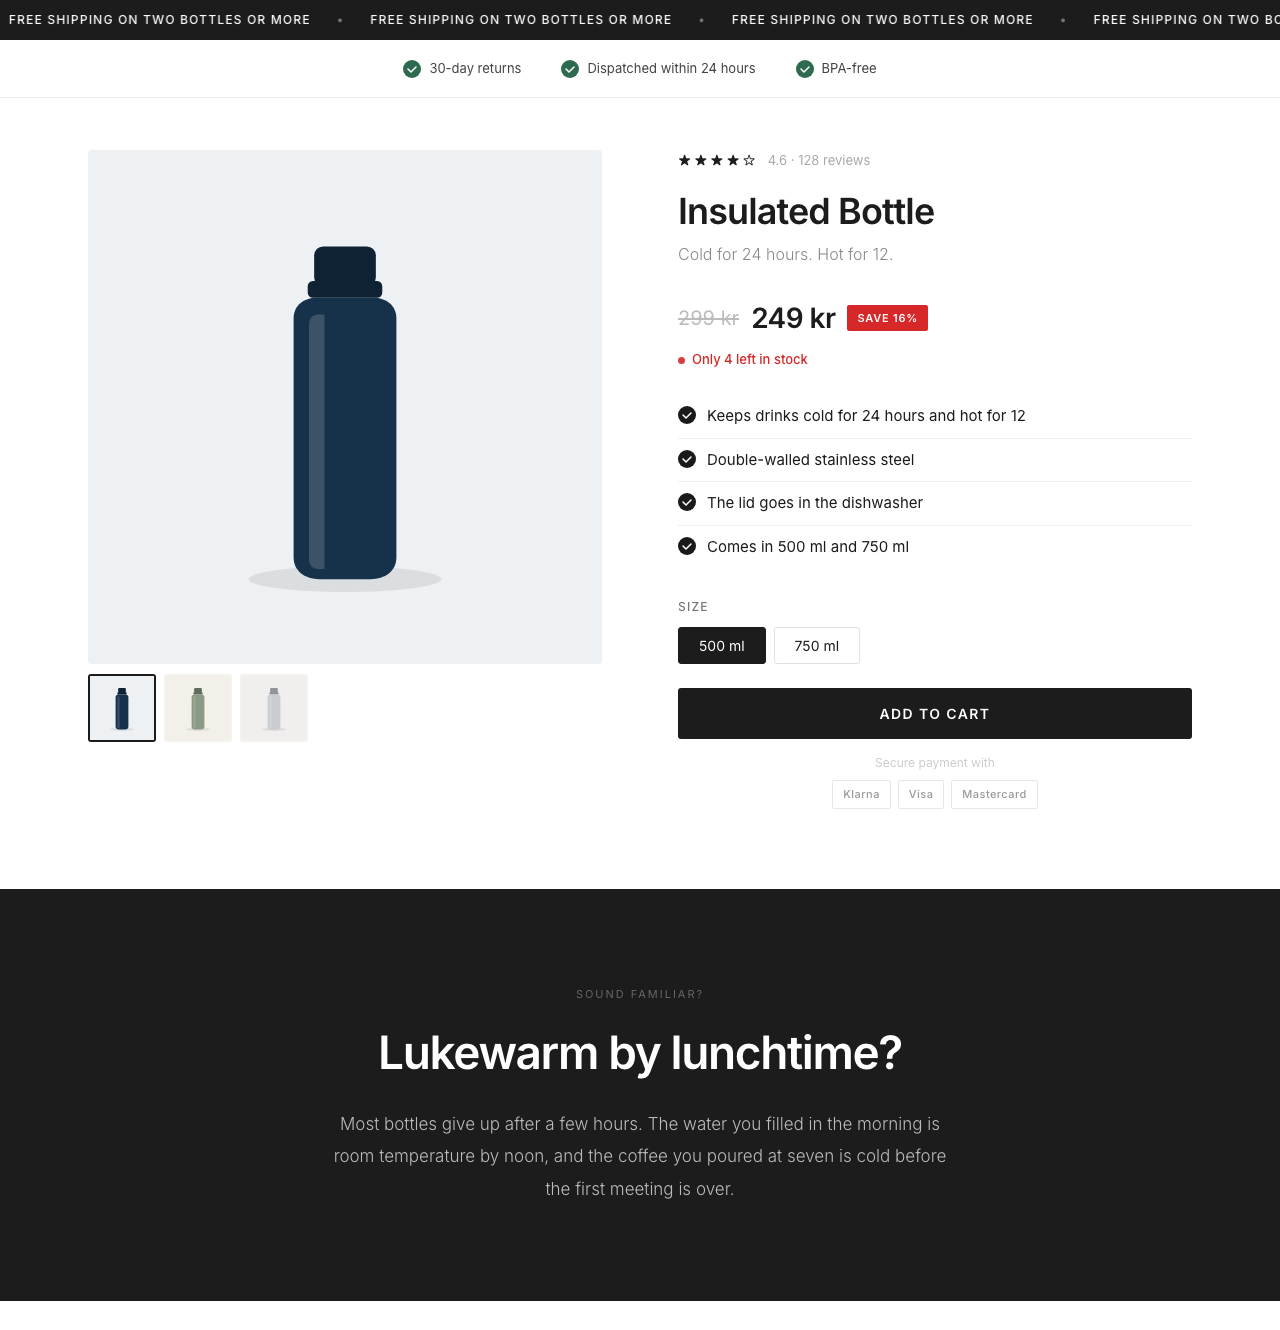
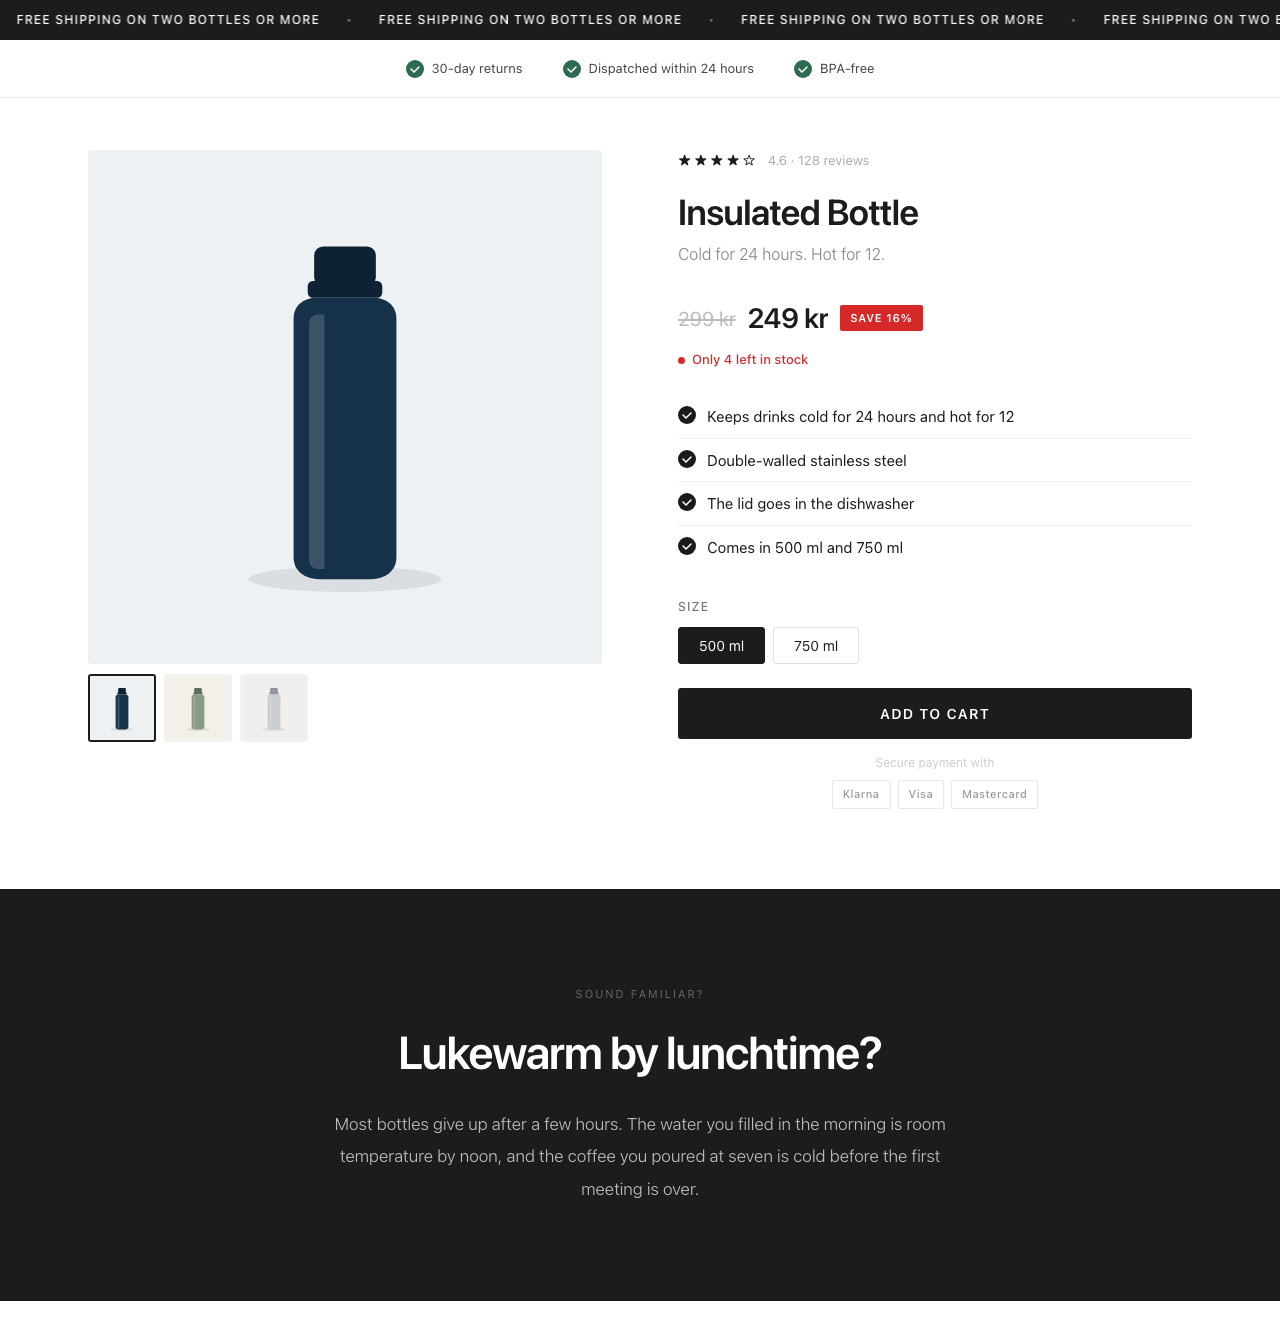
Give images dimensions, use system fonts, and point out images that are not on Shopify's CDN
Found by running Shopify's Theme Check on a built template.

diff --git a/src/template.js b/src/template.js
@@ -43,13 +43,13 @@ function gallery(images, s) {
   const slides = images
     .map((src, i) => `
           <div class="g-slide${i === 0 ? ' active' : ''}">
-            <img src="${e(src)}" alt="${e(s.imageAlt.replace('[n]', i + 1))}" loading="${i === 0 ? 'eager' : 'lazy'}">
+            <img src="${e(src)}" alt="${e(s.imageAlt.replace('[n]', i + 1))}" width="800" height="800" loading="${i === 0 ? 'eager' : 'lazy'}">
           </div>`)
     .join('');
   const thumbs = images
     .map((src, i) => `
           <button class="g-thumb${i === 0 ? ' active' : ''}" data-slide="${i}" type="button" aria-label="${e(s.imageAlt.replace('[n]', i + 1))}">
-            <img src="${e(src)}" alt="" loading="lazy">
+            <img src="${e(src)}" alt="" width="68" height="68" loading="lazy">
           </button>`)
     .join('');
   return `
@@ -123,7 +123,7 @@ function features(items) {
   const rows = items
     .map((feature, i) => `
       <div class="feat-row${i % 2 ? ' feat-row--rev' : ''}">
-        ${feature.image ? `<div class="feat-media"><img src="${e(feature.image)}" alt="${e(feature.title)}" loading="lazy"></div>` : ''}
+        ${feature.image ? `<div class="feat-media"><img src="${e(feature.image)}" alt="${e(feature.title)}" width="800" height="600" loading="lazy"></div>` : ''}
         <div class="feat-copy">
           <p class="feat-eye">${String(i + 1).padStart(2, '0')}</p>
           <h3>${e(feature.title)}</h3>
@@ -195,9 +195,6 @@ export function buildTemplate(page) {
   <meta charset="UTF-8">
   <meta name="viewport" content="width=device-width, initial-scale=1.0">
   <title>{{ product.title | escape }} – {{ shop.name | escape }}</title>
-  <link rel="preconnect" href="https://fonts.googleapis.com">
-  <link rel="preconnect" href="https://fonts.gstatic.com" crossorigin>
-  <link href="https://fonts.googleapis.com/css2?family=Inter:ital,wght@0,300;0,400;0,500;0,600;1,300&display=swap" rel="stylesheet">
   {{ content_for_header }}
   <style>
 ${CSS}  </style>

diff --git a/src/cli.js b/src/cli.js
@@ -42,6 +42,13 @@ function loadBrief(file, { requireHttpsImages = false } = {}) {
   return page;
 }
 
+/** Shopify serves images fastest from its own CDN, so point out the ones that live elsewhere. */
+function noteRemoteImages(page) {
+  const images = [...page.images, ...(page.features ?? []).map((feature) => feature.image).filter(Boolean)];
+  const remote = images.filter((image) => !/^https:\/\/cdn\.shopify\.com\//.test(image));
+  if (remote.length) console.log(`Note: ${remote.length} image(s) are not on Shopify's CDN. Upload them under Content → Files for faster pages.`);
+}
+
 function writeOut(relativePath, content) {
   const file = path.join('out', relativePath);
   mkdirSync(path.dirname(file), { recursive: true });
@@ -77,6 +84,7 @@ async function main() {
     const page = loadBrief(briefFile);
     // Laid out like a theme folder, so the file can also be pushed with the Shopify CLI.
     console.log(`Wrote ${writeOut(path.join('theme', templateFilename(page)), buildTemplate(page))}`);
+    noteRemoteImages(page);
     return;
   }
 
@@ -104,6 +112,7 @@ async function main() {
 
   if (command === 'publish') {
     const page = loadBrief(briefFile, { requireHttpsImages: true });
+    noteRemoteImages(page);
     await publish(connect(), page, buildTemplate(page), {
       theme: values.theme,
       assign: values.assign,

diff --git a/src/page.css b/src/page.css
@@ -2,7 +2,8 @@
 *, *::before, *::after { box-sizing: border-box; margin: 0; padding: 0; }
 html { scroll-behavior: smooth; }
 body {
-  font-family: 'Inter', system-ui, -apple-system, sans-serif;
+  /* System fonts: nothing is loaded from a third party, which is faster and keeps visitors' data on the store. */
+  font-family: system-ui, -apple-system, 'Segoe UI', Roboto, 'Helvetica Neue', Arial, sans-serif;
   background: #fff;
   color: #1c1c1c;
   line-height: 1.65;
